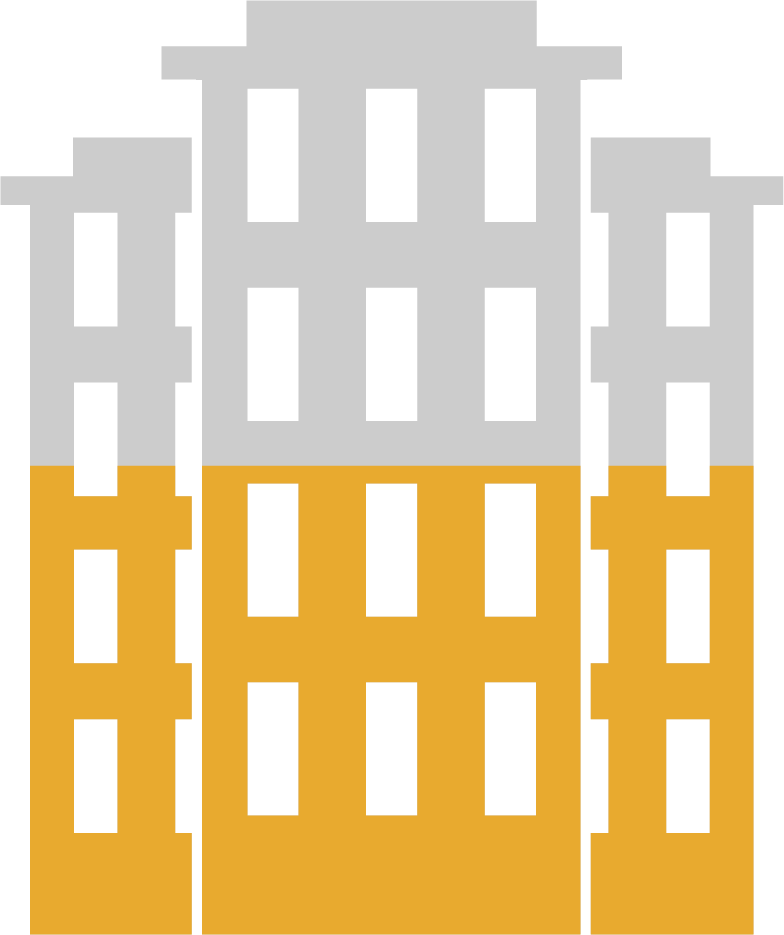
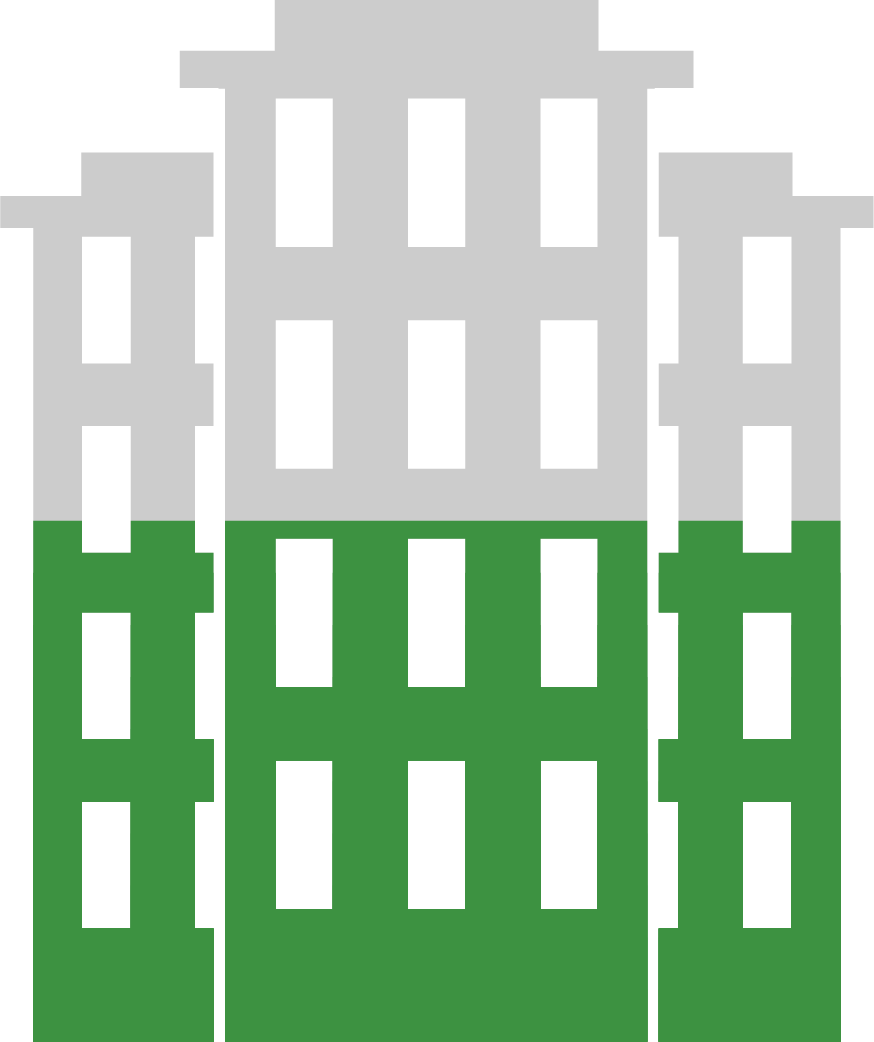
building chart update

diff --git a/src/app/pages/leasing/leasing.component.html b/src/app/pages/leasing/leasing.component.html
@@ -29,6 +29,7 @@
 													<a class="dropdown-item" href="#">Ready for Lease</a>
 												</div>
 											</div>
+											<a (click)="refresh()" class="btn btn-default btn-sm"><i class="fa fa-refresh"></i></a>
 										</div>
 										<div class="ml-auto">
 											<!--paging-->
@@ -50,23 +51,20 @@
 							<table appSortableTable class="leasing-table table table-bordered table-hover" (sorted)="onSorted($event)">
 								<thead>
 									<tr class="">
-										<th colspan="3" class="bg-light">&nbsp;<button type="button" class="btn btn-primary btn-sm addNew" (click)="newApplicant()"><i class="fa fa-plus"></i>Add New</button><a (click)="refresh()"><i class="fa fa-refresh fa-2x" style="float:right"></i></a></th>
+										<th colspan="3" class="bg-light">&nbsp;</th>
 										<th colspan="3" class="bg-primary-light text-center text-uppercase">Application</th>
-										<th colspan="5" class="bg-light">&nbsp;</th>
+										<th colspan="5" class="bg-light">&nbsp;<button type="button" class="btn btn-secondary btn-sm addNew" (click)="newApplicant()"><i class="fa fa-plus"></i>Add New</button></th>
 									</tr>
 									<tr class="bg-primary-light">
 										<th>
-											<app-th columnName="applicantPropertyName" displayName="Building"></app-th>
-									    </th>
+											<app-th columnName="lastname" displayName="Applicant"></app-th>
+										</th>
 									    <th>
 											<app-th columnName="applicantUnit" displayName="Unit"></app-th>
 										</th>
-										<th>
-											<app-th columnName="source" displayName="Source"><sup><button type="button" class="btn btn-link btn-sm" container="body" placement="top" ngbPopover="How the Application was Entered"><i class="fa fa-info-circle fa-lg"></i></button></sup></app-th>
-										</th>
-									    <th>
-											<app-th columnName="lastname" displayName="Applicant"></app-th>
-										</th>
+										<th class="width-150">
+											<app-th columnName="applicantPropertyName" displayName="Building"></app-th>
+									    </th>
 									    <th>
 											<app-th columnName="applicationDate" displayName="Date"><sup><button type="button" class="btn btn-link btn-sm" container="body" placement="top" ngbPopover="Application Date"><i class="fa fa-info-circle fa-lg"></i></button></sup></app-th>
 										</th>
@@ -79,9 +77,6 @@
 									    <th>
 											<app-th disable="true"><img src="assets/icon-sr.png" height="21" class="float-left mr-2" alt=""> Screening</app-th>
 										</th>
-										<th>
-											<app-th disable="true">Notes</app-th>
-									    </th>
 									    <th>
 											<app-th disable="true">Pre-Lease <sup><button type="button" class="btn btn-link btn-sm" container="body" placement="top" ngbPopover="Pre-Lease Form"><i class="fa fa-info-circle fa-lg"></i></button></sup></app-th>
 										</th>
@@ -92,79 +87,67 @@
 								</thead>
 								<tbody>
 									<tr *ngFor='let applicant of applicants' (click)="openCard(applicant)">
-										<td>{{applicant.applicantPropertyName}}</td>
-										<td>{{applicant.applicantUnit}}</td>
-										<td><span class="btn btn-link btn-block"><i class="fa fa-globe"></i></span></td>
 										<td><span class="badge badge-info new">New</span>{{applicant.lastname}}, {{applicant.firstname}}</td>
-										<td>{{applicant.applicationDate | date }}</td>
+										<td>{{applicant.applicantUnit}}</td>
+										<td>{{applicant.applicantPropertyName}}</td>
+										<td>{{applicant.applicationDate | date: 'MM/dd/yy' }}</td>
 										<td><a href="https://www.betternoi.com/demo/approval/" target="_blank" class="btn btn-link btn-sm btn-block"><i class="fa fa-clock-o"></i> View Status</a></td>
-										<td>{{applicant.moveinDate | date }}</td>
+										<td>{{applicant.moveinDate | date: 'MM/dd/yy' }}</td>
 										<td><a href="assets/doc/offer-letter.pdf" target="_blank"><i class="fa fa-exclamation-triangle text-warning"></i> Offer Letter</a></td>
-										<td><a href="srnotes" class="btn btn-link btn-sm"><sup class="text-success">1</sup> <i class="fa fa-sticky-note fa-lg"></i></a></td>
 										<td><a href="#" class="btn btn-link btn-sm btn-block"><i class="fa fa-files-o"></i> Forms</a></td>
 										<td>Pending</td>
 									</tr>
 									
 									<tr>
-										<td rowspan="2">Building 2</td>
-										<td rowspan="2">203A</td>
-										<td><span class="btn btn-link btn-block"><i class="fa fa-globe"></i></span></td>
 										<td><a href="" data-toggle="modal" data-target="#guestCardModal"><span class="badge badge-info new">New</span>Jo Cho</a></td>
+										<td rowspan="2">203A</td>
+										<td rowspan="2">Building 2</td>
 										<td>3/17/2018</td>
 										<td><a href="https://www.betternoi.com/demo/approval/" target="_blank" class="btn btn-link btn-sm btn-block"><i class="fa fa-clock-o"></i> View Status</a></td>
 										<td>4/25/2018</td>
 										<td><a href="assets/doc/offer-letter.pdf" target="_blank"><i class="fa fa-exclamation-triangle text-warning"></i> Offer Letter</a></td>
-										<td><a href="srnotes" class="btn btn-link btn-sm"><sup class="text-success">1</sup> <i class="fa fa-sticky-note fa-lg"></i></a></td>
 										<td><a href="https://www.betternoi.com/demo/approval/" class="btn btn-link btn-sm btn-block" target="_blank"><i class="fa fa-files-o"></i> Forms</a></td>
 										<td>Sent for Signature</td>
 									</tr>
 									<tr>
-										<td><span class="btn btn-link btn-block"><i class="fa fa-globe"></i></span></td>
 										<td><a href="" data-toggle="modal" data-target="#guestCardModal"><span class="badge badge-info new">New</span>John Cho</a></td>
 										<td>3/17/2018</td>
 										<td><a href="https://www.betternoi.com/demo/approval/" target="_blank" class="btn btn-link btn-sm btn-block"><i class="fa fa-clock-o"></i> View Status</a></td>
 										<td>4/25/2018</td>
 										<td><a href="assets/doc/offer-letter.pdf" target="_blank"><i class="fa fa-exclamation-triangle text-warning"></i> Offer Letter</a></td>
-										<td><a href="srnotes" class="btn btn-link btn-sm"><sup class="text-success">1</sup> <i class="fa fa-sticky-note fa-lg"></i></a></td>
 										<td><a href="https://www.betternoi.com/demo/approval/" class="btn btn-link btn-sm btn-block" target="_blank"><i class="fa fa-files-o"></i> Forms</a></td>
 										<td>Sent for Signature</td>
 									</tr>
 									<tr>
-										<td>Building 1</td>
-										<td>103A</td>
-										<td><span class="btn btn-link btn-block"><i class="fa fa-file-text-o"></i></span></td>
 										<td><a href="" data-toggle="modal" data-target="#guestCardModal"><span class="badge badge-info new">New</span>Amy Maley</a></td>
+										<td>103A</td>
+										<td>Building 1</td>
 										<td>3/17/2018</td>
 										<td><a href="https://www.betternoi.com/demo/approval/" target="_blank" class="btn btn-link btn-sm btn-block"><i class="fa fa-clock-o"></i> View Status</a></td>
 										<td>4/25/2018</td>
 										<td><a href="assets/doc/offer-letter.pdf" target="_blank"><i class="fa fa-exclamation-triangle text-warning"></i> Offer Letter</a></td>
-										<td><a href="srnotes" class="btn btn-link btn-sm"><sup class="text-success">1</sup> <i class="fa fa-sticky-note fa-lg"></i></a></td>
 										<td><a href="https://www.betternoi.com/demo/approval/" class="btn btn-link btn-sm btn-block" target="_blank"><i class="fa fa-files-o"></i> Forms</a></td>
 										<td>Pending</td>
 									</tr>
 									<tr>
-										<td>Building 2</td>
-										<td>123C</td>
-										<td><span class="btn btn-link btn-block"><i class="fa fa-globe"></i></span></td>
 										<td><a href="#" data-toggle="modal" data-target="#guestCardModal">John Testcase</a></td>
+										<td>123C</td>
+										<td>Building 2</td>
 										<td>3/15/2018</td>
 										<td><a href="https://www.betternoi.com/demo/approval/" target="_blank" class="btn btn-link btn-sm btn-block text-success"><i class="fa fa-check fa-lg"></i> Completed</a></td>
 										<td>4/10/2018</td>
 										<td><a href="assets/doc/offer-letter.pdf" target="_blank"><i class="fa fa-check text-success"></i> Offer Letter</a></td>
-										<td><a href="srnotes" class="btn btn-link btn-sm"><sup class="text-success">2</sup> <i class="fa fa-sticky-note fa-lg"></i></a></td>
 										<td><a href="https://www.betternoi.com/demo/approval/" class="btn btn-link btn-sm btn-block" target="_blank"><i class="fa fa-files-o"></i> Forms</a></td>
 										<td><a href="leaseform" class="btn btn-sm btn-block btn-success">Create</a></td>
 									</tr>
 									<tr>
-										<td>Building 1</td>
-										<td>103A</td>
-										<td><span class="btn btn-link btn-block"><i class="fa fa-file-text-o"></i></span></td>
 										<td><a href="" data-toggle="modal" data-target="#guestCardModal">Taleasha Staser</a></td>
+										<td>103A</td>
+										<td>Building 1</td>
 										<td>3/15/2018</td>
 										<td><a href="https://www.betternoi.com/demo/approval/" target="_blank" class="btn btn-link btn-sm btn-block"><i class="fa fa-clock-o"></i> View Status</a></td>
 										<td>5/1/2018</td>
 										<td><a href="assets/doc/denial-letter.pdf" target="_blank"><i class="fa fa-times fa-lg text-danger"></i> Denial Letter</a></td>
-										<td><a href="sr-notes.html" class="btn btn-link btn-sm"><sup class="text-success">1</sup> <i class="fa fa-sticky-note fa-lg"></i></a></td>
 										<td><a href="https://www.betternoi.com/demo/approval/" class="btn btn-link btn-sm btn-block" target="_blank"><i class="fa fa-files-o"></i> Forms</a></td>
 										<td>Pending</td>
 								</tr>

diff --git a/src/app/components/mostrecent/mostrecent.component.ts b/src/app/components/mostrecent/mostrecent.component.ts
@@ -47,19 +47,67 @@ export class MostRecentComponent implements OnInit {
   }
 
   getBuildingImage(readPercent) {
-    if (readPercent <= .20) {
+    if (readPercent === 0) {
       return this.buildingImgPath + 'building-0.png';
 
-    } else if (readPercent <= .40 && readPercent > .20) {
+    } else if (readPercent < .1 && readPercent > 0) {
+      return this.buildingImgPath + 'building-5.png';
+
+    } else if (readPercent < .15 && readPercent >= .1 ) {
+      return this.buildingImgPath + 'building-10.png';
+
+    } else if (readPercent < .20 && readPercent >= .15 ) {
+      return this.buildingImgPath + 'building-15.png';
+
+    } else if (readPercent < .25 && readPercent >= .20) {
+      return this.buildingImgPath + 'building-20.png';
+
+    } else if (readPercent < .30 && readPercent >= .25) {
       return this.buildingImgPath + 'building-25.png';
 
-    } else if (readPercent <= .60 && readPercent > .40)  {
+    } else if (readPercent < .35 && readPercent >= .30) {
+      return this.buildingImgPath + 'building-30.png';
+
+    } else if (readPercent < .40 && readPercent >= .35) {
+      return this.buildingImgPath + 'building-35.png';
+
+    } else if (readPercent < .45 && readPercent >= .40) {
+      return this.buildingImgPath + 'building-40.png';
+
+    } else if (readPercent < .50 && readPercent >= .45) {
+      return this.buildingImgPath + 'building-45.png';
+
+    } else if (readPercent < .55 && readPercent >= .50) {
       return this.buildingImgPath + 'building-50.png';
 
-    } else if (readPercent <= .80 && readPercent > .60) {
+    } else if (readPercent < .60 && readPercent >= .55) {
+      return this.buildingImgPath + 'building-55.png';
+
+    } else if (readPercent < .65 && readPercent >= .60) {
+      return this.buildingImgPath + 'building-60.png';
+
+    } else if (readPercent < .70 && readPercent >= .65) {
+      return this.buildingImgPath + 'building-65.png';
+
+    } else if (readPercent < .75 && readPercent >= .70) {
+      return this.buildingImgPath + 'building-70.png';
+
+    } else if (readPercent < .80 && readPercent >= .75) {
       return this.buildingImgPath + 'building-75.png';
 
-    } else if (readPercent <= .100) {
+    } else if (readPercent < .85 && readPercent >= .80) {
+      return this.buildingImgPath + 'building-80.png';
+
+    } else if (readPercent < .90 && readPercent >= .85) {
+      return this.buildingImgPath + 'building-85.png';
+
+    } else if (readPercent < .95 && readPercent >= .90) {
+      return this.buildingImgPath + 'building-90.png';
+
+    } else if (readPercent < 1.0 && readPercent >= .95) {
+      return this.buildingImgPath + 'building-95.png';
+
+    } else if (readPercent === 1.0) {
       return this.buildingImgPath + 'building-100.png';
     }
   }

diff --git a/src/app/pages/messages/sentbox/sentbox.component.html b/src/app/pages/messages/sentbox/sentbox.component.html
@@ -20,10 +20,11 @@
 						<p-checkbox name="groupname" value="val2" [(ngModel)]="checkAll" binary="true" (click)="selectAllMessages(checkAll)"></p-checkbox>
 					</app-th>
 				</th>
-					<th class="width-250">
+				<th class="width-250">
 					<app-th columnName="id" displayName="Recipient"></app-th>
 				</th> 
 				<th class="width-100">
+					<app-th style="color: #e9ecef;" columnName="type" displayName="Type"></app-th>
 				</th>
 				<th class="min-width-100">
 					<app-th columnName="message" displayName="Message"></app-th>
@@ -35,16 +36,16 @@
 
 
 			<tbody *ngIf="messages?.length; else no_data_templ"> 
-				<tr *ngFor='let message of messages' (click)="openMessage(message.id)">
+				<tr *ngFor='let message of messages'>
 					<td>
 						<ul class="list-inline m-0">
 						<li class="list-inline-item">
-							<p-checkbox name="groupname" value="val2" [(ngModel)]="message.selected" binary="true"></p-checkbox>
+							<p-checkbox [(ngModel)]="message.selected" binary="true"></p-checkbox>
 						</li>
 						</ul>
 					</td>
 
-					<td class="ellipsis">
+					<td class="ellipsis" (click)="openMessage(message.id)">
 		
 						<span *ngIf="message.type ==='SITE'">
 							{{message.messageRecipients[0]?.rentalSite}}		
@@ -71,7 +72,7 @@
 						</span>
 					</td>
 
-					<td>
+					<td (click)="openMessage(message.id)">
 						<button [ngClass]="message.type" class="btn sentType UNIT">
 							<span *ngIf="message.type==='SITE'">
 								Community
@@ -82,19 +83,19 @@
 						</button>
 					</td>
 
-					<td class="min-width-100">
+					<td class="min-width-100" (click)="openMessage(message.id)">
 		
 						<span class="previewTitle"> {{message.subject}} -</span> 
 						<span class="previewSubject" [innerHTML]="message.message | htmlToPlain"> </span> 
 					</td>
 
-					<td class="text-right">
+					<td class="text-right" (click)="openMessage(message.id)">
 						<i *ngIf="message.messageRecipients[0].messageAttachments?.length" class="fa fa-paperclip fa-lg"></i>
 						<button class="btn sentType report" (click)="openReport(message.id)">
 						<i class="fa fa-tasks"></i>
 						</button>
-						<i style="color: #fff" class="fa fa-angle-right"></i>
-						<span>{{message.createDate | date: 'MMM dd, y' }} </span>
+                        <span style="margin-right: 10px;"></span>
+						<span>{{message.createDate | date: 'MM/dd/yy' }} </span>
 					</td>
 					
 				</tr>				               

diff --git a/src/app/pages/leasing/leasing.component.scss b/src/app/pages/leasing/leasing.component.scss
@@ -56,10 +56,35 @@
   margin-top: 1px;
 }
 
-.addNew {
-  border-radius: 7px !important;
-  opacity: .7 !important;
+.width-25 {
+  width: 25px;
 }
+.width-50 {
+  width: 50px;
+}
+.width-100 {
+  width: 100px;
+}
+.width-150 {
+  width: 150px;
+}
+.width-250 {
+  width: 250px;
+}
+
+.addNew {
+  float: right;
+}
+
+::ng-deep .page-item.active .page-link {
+  color: black;
+  background-color: #efefef;
+  border: 1px solid #ddd;
+}
+
+::ng-deep .page-link {
+  color: black;
+} 
 
 ::ng-deep .tooltip-inner {
     background-color: #FFF;

diff --git a/src/app/pages/messages/inbox/inbox.component.html b/src/app/pages/messages/inbox/inbox.component.html
@@ -51,8 +51,8 @@
 
 					<td class="text-right1" style="padding-left: 50px;">
 						<i *ngIf="inquiry.generalInquiryAttachments.length" class="fa fa-paperclip fa-lg"></i>
-					    <i style="color: #fff" class="fa fa-angle-right"></i>
-						<span>{{inquiry.createDate | date: 'MMM dd, y' }} </span>
+					    <span style="margin-right: 10px;"></span>
+						<span>{{inquiry.createDate | date: 'MM/dd/yy' }} </span>
 					</td>
 				</tr>				               
 			</tbody>
